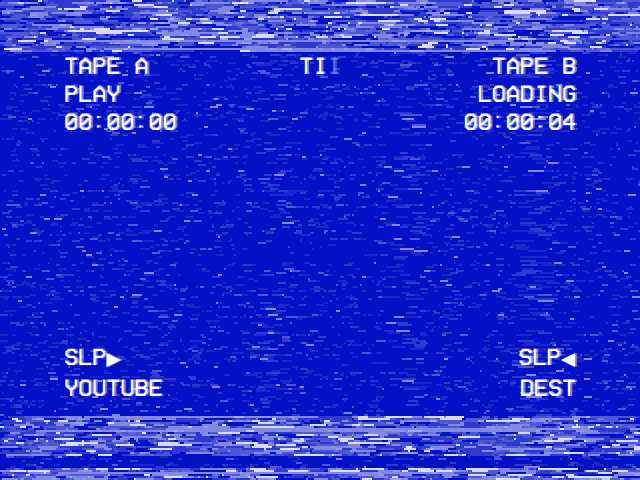
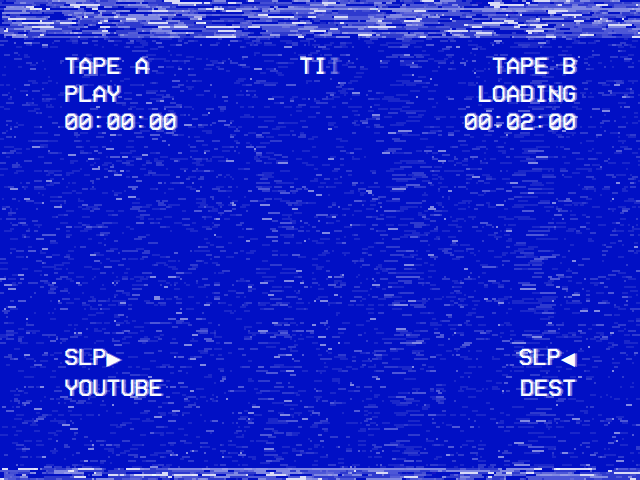
feat: the loading screen shows where the video is and how long it is
The owner asked for the video's current point and its total length on
the loading screen once the video's data is known, and for a general
setting to turn the effect on and off.

- TAPE A's counter is where the video is: while it loads, the point it
  starts from (a resume shows it). TAPE B's counter becomes the video's
  length once known, the seconds the screen has been up until then.
  The length is the server's for Plex, Jellyfin and Emby (their detail
  screens pass it on, and the launch overlays show the item's own
  position and length), else mpv's as it opens the file.
- Plex's loading screen showed the resume point even after "start from
  the beginning": its counter now follows the start actually made
  (lastStartMs), as Jellyfin's, Emby's and the NFC player's do too.
- Settings -> Loading Effect (app.loading_effect, On by default): off,
  no noise, bands, jumps or colour bleed; the deck's display stands
  alone on the plain background.

Claude-Session: https://claude.ai/code/session_01BPj7F5bUAW2FbHbUrDiQbs

diff --git a/views/Components/LoadingScreen.qml b/views/Components/LoadingScreen.qml
@@ -3,17 +3,21 @@ import MP240.Video
 
 // What a player shows while its video starts: a VCR's screen as a tape loads.
 // The theme's ground in a tape's noise (VhsNoise), and a dubbing deck's
-// on-screen display in its corners: TAPE A PLAY at the point the video starts
-// from, the tracking mark, TAPE B LOADING with the seconds it has taken so
-// far, and the source under SLP ▶; what loads, when the player knows, across
-// the middle. The tracking band jitters across the top and now and then rolls
-// down over the lot, eating into the letters. It runs while it is visible,
-// and rests, still on its last frame, while another process has the screen.
+// on-screen display in its corners: TAPE A PLAY at the point the video is
+// (where it starts from), the tracking mark, TAPE B LOADING with the video's
+// length once that is known and the seconds it has taken until then, and the
+// source under SLP ▶; what loads, when the player knows, across the middle.
+// The tracking band jitters across the top and now and then rolls down over
+// the lot, eating into the letters; Settings' Loading Effect turns all of
+// that off, leaving the display on the plain ground. It runs while it is
+// visible, and rests, still on its last frame, while another process has the
+// screen.
 //
 //     LoadingScreen {
 //         anchors.fill: parent
 //         source: moduleRoot.moduleName
 //         startMs: lastStartMs
+//         durationMs: lastKnownDurationMs
 //         visible: !playbackStarted
 //     }
 Item {
@@ -21,12 +25,16 @@ Item {
 
     // Under SLP ▶: what plays, a module's name say.
     property string source: "SOURCE"
-    // TAPE A's counter: where the video starts, in milliseconds.
+    // TAPE A's counter: where the video is, in milliseconds; while it loads,
+    // where it starts from.
     property int startMs: 0
+    // TAPE B's counter once known: how long the video is, in milliseconds (0
+    // while that isn't known, from mpv or the module's server).
+    property int durationMs: 0
     // What loads, if known before it plays (a card's title): across the middle.
     property string title: ""
 
-    // TAPE B's counter: the seconds it has been up.
+    // TAPE B's counter until the length is known: the seconds it has been up.
     property int elapsed: 0
     property bool blink: true
     // The display's jump sideways now and then, in art pixels.
@@ -34,6 +42,9 @@ Item {
     // Running. Not while mpv has the Pi's screen (the hand-off before its
     // picture shows): nothing drawn here would reach it.
     readonly property bool live: visible && !root.screenHandedOff
+    // The tape's effects: its noise and bands, the display's jumps and its
+    // colour bleeding (Settings → Loading Effect).
+    property bool effect: root.loadingEffect
 
     readonly property real fontSize: root.sh * 0.05 //24
 
@@ -59,6 +70,7 @@ Item {
 
         Text {
             x: root.px
+            visible: tape.effect
             text: line.text
             color: root.secondaryColor
             opacity: 0.45
@@ -79,6 +91,7 @@ Item {
 
     VhsNoise {
         anchors.fill: parent
+        visible: tape.effect
         color: root.primaryColor
         pixel: root.px
         running: tape.live
@@ -87,7 +100,7 @@ Item {
     Item {
         id: osd
         anchors.fill: parent
-        transform: Translate { x: tape.jitter * root.px }
+        transform: Translate { x: tape.effect ? tape.jitter * root.px : 0 }
 
         Column {
             x: root.sw * 0.1 //64
@@ -114,7 +127,10 @@ Item {
             spacing: root.sh * 0.0083333 //4
             OsdLine { anchors.right: parent.right; text: "TAPE B" }
             OsdLine { anchors.right: parent.right; text: "LOADING"; opacity: tape.blink ? 1 : 0 }
-            OsdLine { anchors.right: parent.right; text: tape.counter(tape.elapsed) }
+            OsdLine {
+                anchors.right: parent.right
+                text: tape.counter(tape.durationMs > 0 ? tape.durationMs / 1000 : tape.elapsed)
+            }
         }
 
         Text {
@@ -153,6 +169,7 @@ Item {
     // The bands over the display: where they pass, its letters break up.
     VhsNoise {
         anchors.fill: parent
+        visible: tape.effect
         color: root.primaryColor
         shade: root.surfaceColor
         pixel: root.px
@@ -176,7 +193,7 @@ Item {
     Timer {
         interval: 120
         repeat: true
-        running: tape.live
+        running: tape.live && tape.effect
         onTriggered: tape.jitter = Math.random() < 0.06 ? (Math.random() < 0.5 ? -1 : 1) : 0
     }
 }

diff --git a/modules/jellyfin/views/Player.qml b/modules/jellyfin/views/Player.qml
@@ -18,6 +18,10 @@ FocusScope {
     property string mediaSourceId:  navParams.mediaSourceId  || itemId
     property string itemTitle:      navParams.title          || ""
     property int    viewOffset:     navParams.viewOffset     || 0
+    // How long it is, from the server, and where the last start began: the
+    // loading screen's counters.
+    property int    itemDurationMs: navParams.duration       || 0
+    property int    lastStartMs:    0
     property int    parentIndex:    navParams.parentIndex    || 0
     property int    index:          navParams.index          || 0
     property var    audioStreams:       navParams.audioStreams     || []
@@ -260,6 +264,7 @@ FocusScope {
         itemId         = detail.itemId         || ""
         mediaSourceId  = detail.mediaSourceId  || detail.itemId || ""
         itemTitle      = detail.title          || ""
+        itemDurationMs = detail.duration       || 0
         audioStreams   = detail.audioStreams   || []
         subtitleStreams= detail.subtitleStreams|| []
         seriesId       = detail.seriesId       || ""
@@ -342,6 +347,7 @@ FocusScope {
     }
 
     function beginPlayback(offsetMs) {
+        lastStartMs = offsetMs
         startTimer.pendingOffset = offsetMs
         startTimer.restart()
     }
@@ -385,6 +391,7 @@ FocusScope {
     }
 
     function doStartPlayback(offsetMs) {
+        lastStartMs = offsetMs
         var jfToken = jellyfinBackend.get_access_token()
         if (isTranscoding) {
             // The HLS manifest bakes in the selected audio, and the chosen subtitle
@@ -726,6 +733,8 @@ FocusScope {
         LoadingScreen {
             anchors.fill: parent
             source: moduleRoot.moduleName
+            startMs: playerRoot.lastStartMs
+            durationMs: playerRoot.itemDurationMs || playerRoot.lastKnownDurationMs
             visible: streamUrl !== "" && !overlayVisible && !playbackStarted
         }
     }

diff --git a/modules/emby/views/Player.qml b/modules/emby/views/Player.qml
@@ -18,6 +18,10 @@ FocusScope {
     property string mediaSourceId:  navParams.mediaSourceId  || itemId
     property string itemTitle:      navParams.title          || ""
     property int    viewOffset:     navParams.viewOffset     || 0
+    // How long it is, from the server, and where the last start began: the
+    // loading screen's counters.
+    property int    itemDurationMs: navParams.duration       || 0
+    property int    lastStartMs:    0
     property int    parentIndex:    navParams.parentIndex    || 0
     property int    index:          navParams.index          || 0
     property var    audioStreams:       navParams.audioStreams     || []
@@ -256,6 +260,7 @@ FocusScope {
         itemId         = detail.itemId         || ""
         mediaSourceId  = detail.mediaSourceId  || detail.itemId || ""
         itemTitle      = detail.title          || ""
+        itemDurationMs = detail.duration       || 0
         audioStreams   = detail.audioStreams   || []
         subtitleStreams= detail.subtitleStreams|| []
         seriesId       = detail.seriesId       || ""
@@ -338,6 +343,7 @@ FocusScope {
     }
 
     function beginPlayback(offsetMs) {
+        lastStartMs = offsetMs
         startTimer.pendingOffset = offsetMs
         startTimer.restart()
     }
@@ -387,6 +393,7 @@ FocusScope {
     }
 
     function doStartPlayback(offsetMs) {
+        lastStartMs = offsetMs
         var embyToken = embyBackend.get_access_token()
         if (isTranscoding) {
             // HLS manifest bakes in the selected audio. Subtitles do NOT ride in
@@ -643,6 +650,8 @@ FocusScope {
         LoadingScreen {
             anchors.fill: parent
             source: moduleRoot.moduleName
+            startMs: playerRoot.lastStartMs
+            durationMs: playerRoot.itemDurationMs || playerRoot.lastKnownDurationMs
             visible: streamUrl !== "" && !overlayVisible && !playbackStarted
         }
     }

diff --git a/modules/plex/views/Player.qml b/modules/plex/views/Player.qml
@@ -19,6 +19,10 @@ FocusScope {
     property string partId:       navParams.partId       || ""
     property string sessionId:    navParams.sessionId    || ""
     property int    viewOffset:   navParams.viewOffset   || 0
+    // How long it is, from the server, and where the last start began: the
+    // loading screen's counters.
+    property int    itemDurationMs: navParams.duration   || 0
+    property int    lastStartMs:  0
     property string itemTitle:    navParams.title        || ""
     property var    audioStreams:     navParams.audioStreams     || []
     property var    subtitleStreams:  navParams.subtitleStreams  || []
@@ -214,11 +218,13 @@ FocusScope {
     }
 
     function beginPlayback(offsetMs) {
+        lastStartMs = offsetMs
         startTimer.pendingOffset = offsetMs
         startTimer.restart()
     }
 
     function doStartPlayback(offsetMs) {
+        lastStartMs = offsetMs
         if (isTranscoding) {
             // Transcode covers the full timeline (requested at offset 0), so seek mpv
             // to the resume point. This keeps everything before offsetMs seekable, so
@@ -304,6 +310,7 @@ FocusScope {
         partKey     = detail.partKey      || ""
         partId      = detail.partId       || ""
         itemTitle   = detail.title        || ""
+        itemDurationMs  = detail.duration        || 0
         audioStreams    = detail.audioStreams    || []
         subtitleStreams = detail.subtitleStreams || []
         isTranscoding   = detail.forceTranscode  || false
@@ -466,7 +473,8 @@ FocusScope {
         LoadingScreen {
             anchors.fill: parent
             source: moduleRoot.moduleName
-            startMs: playerRoot.viewOffset
+            startMs: playerRoot.lastStartMs
+            durationMs: playerRoot.itemDurationMs || playerRoot.lastKnownDurationMs
             visible: streamUrl !== "" && !overlayVisible && !playbackStarted
         }
     }

diff --git a/Main.qml b/Main.qml
@@ -108,6 +108,8 @@ Window {
                 root.currentTheme = value
             } else if (key === "transparent_background") {
                 root.backdropSolidity = root.solidityOf(value)
+            } else if (key === "loading_effect") {
+                root.loadingEffect = value !== "Off"
             } else if (key === "mouse_pointer") {
                 root.pointerSetting = String(value)
                 if (root.pointerShown)
@@ -154,6 +156,7 @@ Window {
         root.currentTheme = savedTheme
         root.backdropSolidity = root.solidityOf(cfg.app && cfg.app.transparent_background)
         root.pointerSetting = String((cfg.app && cfg.app.mouse_pointer) || "5")
+        root.loadingEffect = !(cfg.app && cfg.app.loading_effect === "Off")
 
         // Screensaver: the tracker starts disabled; this is the single place the
         // saved setting is applied (live changes land in onAppSettingChanged above,
@@ -316,6 +319,9 @@ Window {
     // (see DisplayHandoff). Nothing drawn here reaches it until it is back,
     // so what animates rests meanwhile (LoadingScreen).
     readonly property bool screenHandedOff: displayHandoff ? displayHandoff.held : false
+    // "loading_effect": the tape's noise and bands on the screen a video
+    // loads behind (LoadingScreen), "On" (the default, when unset) or "Off".
+    property bool loadingEffect: true
 
     // "transparent_background": how solid the menus' ground is over a video
     // behind them, 0 (TRANSPARENT) to 100 (SOLID: none of it shows, but it

diff --git a/views/Settings.qml b/views/Settings.qml
@@ -196,6 +196,19 @@ FocusScope {
             moduleId: ""
         })
 
+        // Loading Effect — the screen a video loads behind is a tape loading
+        // (Components/LoadingScreen): its noise and tracking bands, or, off,
+        // the deck's display alone on the plain background. Read in Main.qml.
+        items.push({
+            type: "list_single",
+            key: "loading_effect",
+            label: "Loading Effect",
+            options: ["On", "Off"],
+            value: appSettings["loading_effect"] === "Off" ? "Off" : "On",
+            description: "While a video loads, a tape's noise and tracking bands roll over its counters\n[OFF] The counters alone, on the plain background",
+            moduleId: ""
+        })
+
         // SCREEN SAVER section — single control: OFF disables, a number sets the
         // timeout for both menu idle and playback pause (handled inside mpv).
         items.push({

diff --git a/modules/emby/views/Item.qml b/modules/emby/views/Item.qml
@@ -117,6 +117,7 @@ FocusScope {
                 mediaSourceId: d.mediaSourceId || d.itemId,
                 title: d.title,
                 viewOffset: d.viewOffset || 0,
+                duration: d.duration || 0,
                 audioStreams: d.audioStreams || [],
                 subtitleStreams: d.subtitleStreams || [],
                 selectedAudioId: detailRoot.selectedAudioId(),
@@ -706,6 +707,9 @@ FocusScope {
         LoadingScreen {
             anchors.fill: parent
             source: moduleRoot.moduleName
+            // Where it is and how long it is, as the server says.
+            startMs: detailRoot.detail ? (detailRoot.detail.viewOffset || 0) : 0
+            durationMs: detailRoot.detail ? (detailRoot.detail.duration || 0) : 0
         }
 
         HintBar {

diff --git a/modules/jellyfin/views/Item.qml b/modules/jellyfin/views/Item.qml
@@ -117,6 +117,7 @@ FocusScope {
                 mediaSourceId: d.mediaSourceId || d.itemId,
                 title: d.title,
                 viewOffset: d.viewOffset || 0,
+                duration: d.duration || 0,
                 audioStreams: d.audioStreams || [],
                 subtitleStreams: d.subtitleStreams || [],
                 selectedAudioId: detailRoot.selectedAudioId(),
@@ -706,6 +707,9 @@ FocusScope {
         LoadingScreen {
             anchors.fill: parent
             source: moduleRoot.moduleName
+            // Where it is and how long it is, as the server says.
+            startMs: detailRoot.detail ? (detailRoot.detail.viewOffset || 0) : 0
+            durationMs: detailRoot.detail ? (detailRoot.detail.duration || 0) : 0
         }
 
         HintBar {

diff --git a/modules/nfc_reader/views/Player.qml b/modules/nfc_reader/views/Player.qml
@@ -69,6 +69,7 @@ FocusScope {
     }
 
     function play(startMs, plPos) {
+        lastStartMs = startMs
         startTimer.pendingStartMs = startMs
         startTimer.pendingPlPos   = plPos
         startTimer.restart()
@@ -240,6 +241,8 @@ FocusScope {
             anchors.fill: parent
             source: moduleRoot.moduleName
             title: videoTitle
+            startMs: playerRoot.lastStartMs
+            durationMs: playerRoot.lastKnownDurationMs
             visible: !overlayVisible && !playbackStarted && errorMessage === ""
         }
 

diff --git a/modules/plex/views/Item.qml b/modules/plex/views/Item.qml
@@ -619,6 +619,9 @@ FocusScope {
         LoadingScreen {
             anchors.fill: parent
             source: moduleRoot.moduleName
+            // Where it is and how long it is, as the server says.
+            startMs: detailRoot.detail ? (detailRoot.detail.viewOffset || 0) : 0
+            durationMs: detailRoot.detail ? (detailRoot.detail.duration || 0) : 0
         }
 
         HintBar {

diff --git a/modules/plex/views/Extras.qml b/modules/plex/views/Extras.qml
@@ -255,6 +255,9 @@ FocusScope {
         LoadingScreen {
             anchors.fill: parent
             source: moduleRoot.moduleName
+            // Where it is and how long it is, as the server says.
+            startMs: launchingExtra ? (launchingExtra.viewOffset || 0) : 0
+            durationMs: launchingExtra ? (launchingExtra.duration || 0) : 0
         }
 
         HintBar {

diff --git a/modules/youtube/views/Player.qml b/modules/youtube/views/Player.qml
@@ -317,6 +317,7 @@ FocusScope {
             anchors.fill: parent
             source: moduleRoot.moduleName
             startMs: playerRoot.lastStartMs
+            durationMs: playerRoot.lastKnownDurationMs
             visible: !overlayVisible && !playbackStarted && errorMessage === ""
         }
 
